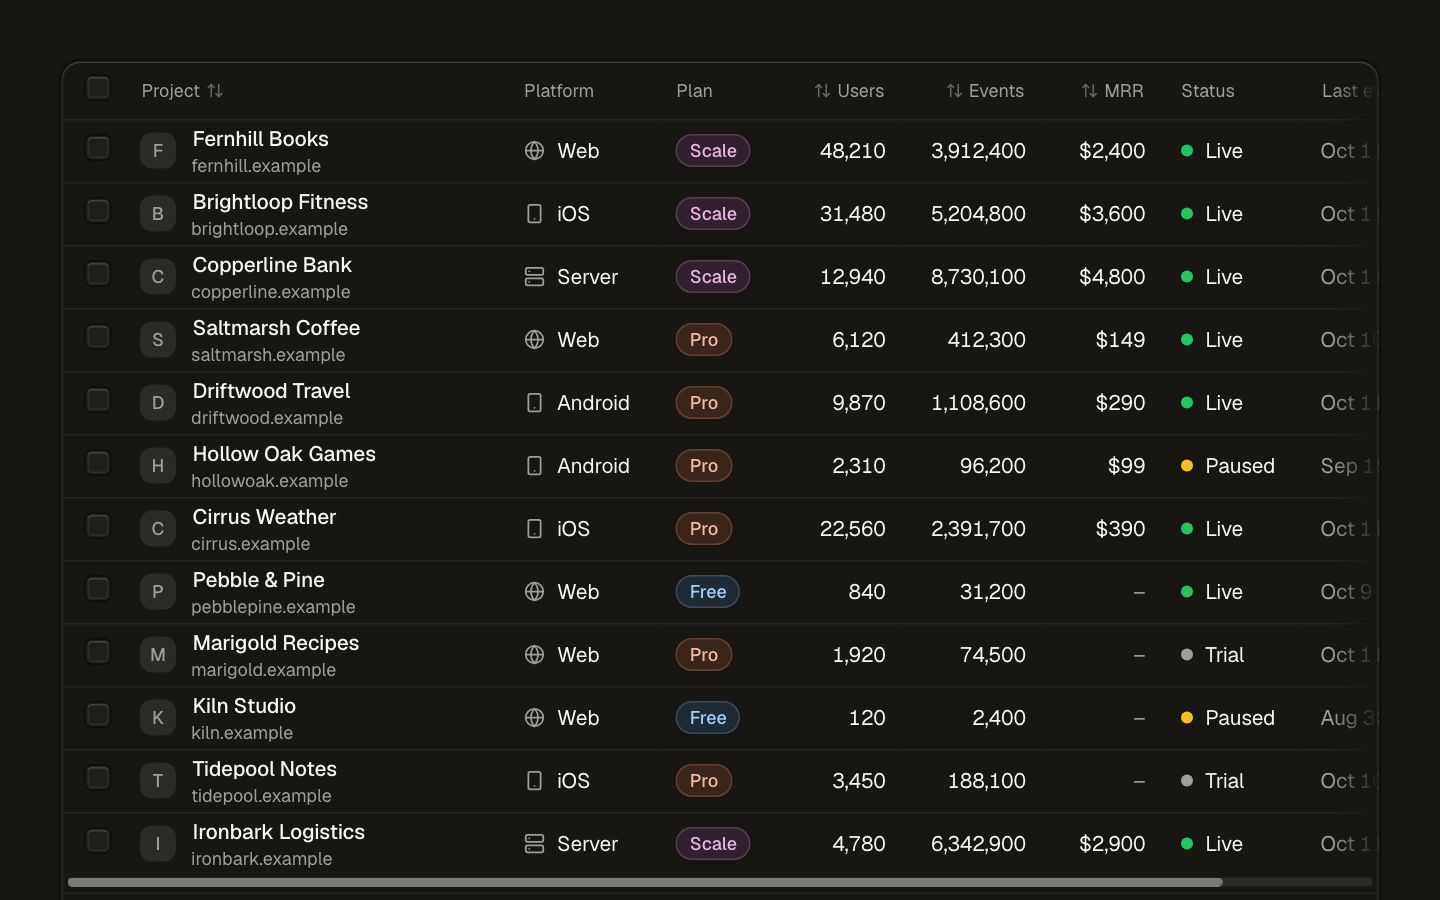
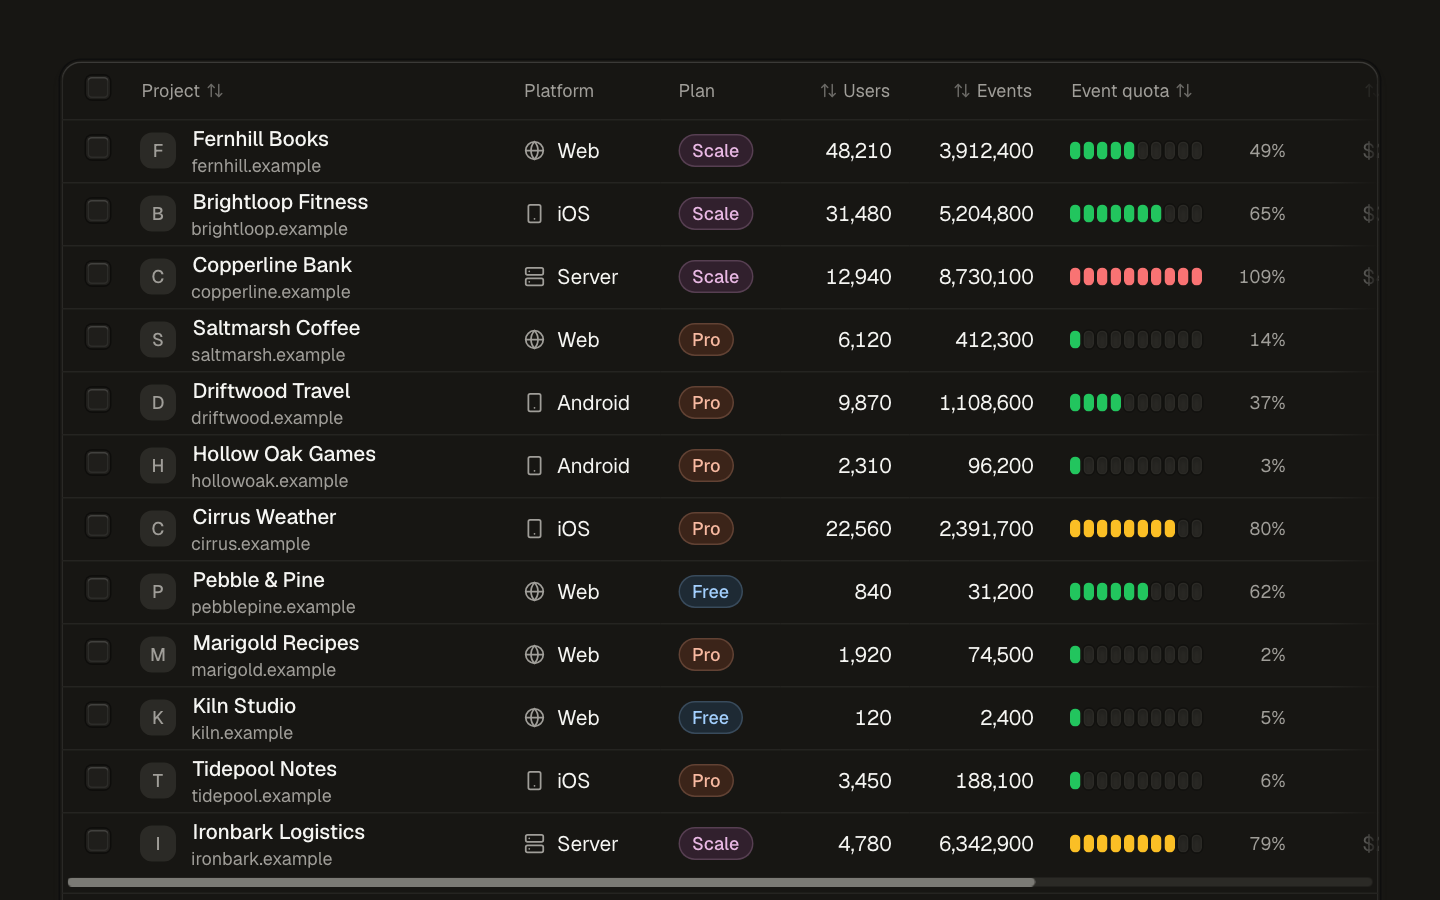
feat(data-table): add the event quota meter

diff --git a/registry/kosmos/blocks/data-table/data-table.tsx b/registry/kosmos/blocks/data-table/data-table.tsx
@@ -33,6 +33,7 @@ import {
   DropdownMenuTrigger,
 } from '@/registry/kosmos/ui/dropdown-menu';
 import { Empty, EmptyContent, EmptyDescription, EmptyHeader, EmptyMedia, EmptyTitle } from '@/registry/kosmos/ui/empty';
+import { Meter, MeterSegments, MeterValue } from '@/registry/kosmos/ui/meter';
 import { Skeleton } from '@/registry/kosmos/ui/skeleton';
 import { Table, TableBody, TableCell, TableHead, TableHeader, TableRow } from '@/registry/kosmos/ui/table';
 
@@ -87,6 +88,12 @@ const plans: Record<ProjectPlan, { label: string; variant: BadgeProps['variant']
   scale: { label: 'Scale', variant: 'magenta' },
 };
 
+/** Events each plan includes per month. */
+const planAllowance: Record<ProjectPlan, number> = { free: 50_000, pro: 3_000_000, scale: 8_000_000 };
+
+/** The share of its plan's monthly allowance a project used in the last 30 days, in percent. It can pass 100. */
+const eventQuota = (row: Project) => Math.round((row.events / planAllowance[row.plan]) * 100);
+
 const statuses: Record<ProjectStatus, { label: string; dot: string }> = {
   live: { label: 'Live', dot: 'bg-success' },
   trial: { label: 'Trial', dot: 'bg-muted-foreground' },
@@ -100,7 +107,7 @@ const usd = new Intl.NumberFormat('en-US', { style: 'currency', currency: 'USD',
 const day = new Intl.DateTimeFormat('en-US', { month: 'short', day: 'numeric', timeZone: 'UTC' });
 const formatDay = (iso: string) => day.format(new Date(`${iso}T00:00:00Z`));
 
-type SortKey = 'name' | 'users' | 'events' | 'mrr' | 'lastEventAt';
+type SortKey = 'name' | 'users' | 'events' | 'quota' | 'mrr' | 'lastEventAt';
 type Sort = { key: SortKey; direction: 'ascending' | 'descending' };
 /** What the row menu and the bulk bar offer. */
 type DataTableAction = 'copy-link' | 'export' | 'pause' | 'resume' | 'delete';
@@ -108,6 +115,7 @@ type DataTableAction = 'copy-link' | 'export' | 'pause' | 'resume' | 'delete';
 function compare(a: Project, b: Project, key: SortKey) {
   if (key === 'name') return a.name.localeCompare(b.name);
   if (key === 'lastEventAt') return a.lastEventAt.localeCompare(b.lastEventAt);
+  if (key === 'quota') return eventQuota(a) - eventQuota(b);
   return a[key] - b[key];
 }
 
@@ -154,6 +162,26 @@ function SortableHead({
         <Icon aria-hidden className={cn('size-3', !active && 'opacity-60')} />
       </Button>
     </TableHead>
+  );
+}
+
+/** Ten segments for the share of the plan's allowance used: green up to 75%, amber to 95%, red above. The bar stops at full; the number does not. */
+function EventQuota({ row }: { row: Project }) {
+  const quota = eventQuota(row);
+  return (
+    <Meter
+      value={Math.min(quota, 100)}
+      tone="auto"
+      low={75}
+      high={95}
+      optimum={0}
+      aria-label={`${row.name} event quota`}
+      getAriaValueText={() => `${quota}% of ${count.format(planAllowance[row.plan])} events used`}
+      className="w-36 grid-cols-[minmax(0,1fr)_2.75rem] items-center gap-y-0"
+    >
+      <MeterSegments count={10} className="col-span-1 h-3" />
+      <MeterValue className="row-start-1 text-caption">{() => `${quota}%`}</MeterValue>
+    </Meter>
   );
 }
 
@@ -213,7 +241,7 @@ type DataTableProps = Omit<React.ComponentProps<'div'>, 'children'> & {
 
 /**
  * A table of projects: sortable columns, row selection with a bulk action bar, platform, plan tags,
- * usage and revenue, a status dot, a row actions menu, totals in the footer, and loading and empty states.
+ * usage, an event quota meter and revenue, a status dot, a row actions menu, totals in the footer, and loading and empty states.
  * Scrolls sideways on narrow screens.
  */
 function DataTable({
@@ -286,7 +314,7 @@ function DataTable({
 
   return (
     <div data-slot="data-table" className={cn('flex min-w-0 flex-col', className)} {...props}>
-      <Table aria-label="Projects" aria-busy={loading || undefined} className="min-w-[62rem]">
+      <Table aria-label="Projects" aria-busy={loading || undefined} className="min-w-[74rem]">
         <TableHeader>
           <TableRow>
             <TableHead className="w-10 ps-4 pe-0">
@@ -309,6 +337,7 @@ function DataTable({
             <TableHead>Plan</TableHead>
             <SortableHead label="Users" sortKey="users" sort={sort} onSort={onSort} align="end" />
             <SortableHead label="Events" sortKey="events" sort={sort} onSort={onSort} align="end" />
+            <SortableHead label="Event quota" sortKey="quota" sort={sort} onSort={onSort} />
             <SortableHead label="MRR" sortKey="mrr" sort={sort} onSort={onSort} align="end" />
             <TableHead>Status</TableHead>
             <SortableHead label="Last event" sortKey="lastEventAt" sort={sort} onSort={onSort} />
@@ -344,6 +373,9 @@ function DataTable({
                 </TableCell>
                 <TableCell>
                   <Skeleton className="ms-auto h-3.5 w-16" />
+                </TableCell>
+                <TableCell>
+                  <Skeleton className="h-3 w-32" />
                 </TableCell>
                 <TableCell>
                   <Skeleton className="ms-auto h-3.5 w-12" />
@@ -407,6 +439,9 @@ function DataTable({
                   </TableCell>
                   <TableCell className="text-end">{count.format(row.users)}</TableCell>
                   <TableCell className="text-end">{count.format(row.events)}</TableCell>
+                  <TableCell>
+                    <EventQuota row={row} />
+                  </TableCell>
                   <TableCell className="text-end">
                     {row.mrr ? (
                       usd.format(row.mrr)

diff --git a/registry/kosmos/blocks/detail-drawer/detail-drawer.tsx b/registry/kosmos/blocks/detail-drawer/detail-drawer.tsx
@@ -15,6 +15,7 @@ import {
   DropdownMenuSeparator,
   DropdownMenuTrigger,
 } from '@/registry/kosmos/ui/dropdown-menu';
+import { Meter, MeterLabel, MeterSegments, MeterValue } from '@/registry/kosmos/ui/meter';
 import { Select, SelectContent, SelectItem, SelectTrigger, SelectValue } from '@/registry/kosmos/ui/select';
 import { ScrollArea } from '@/registry/kosmos/ui/scroll-area';
 import { Separator } from '@/registry/kosmos/ui/separator';
@@ -100,6 +101,9 @@ const sampleProject: DetailProject = {
   ],
 };
 
+/** Events each plan includes per month. */
+const planAllowance: Record<DetailPlan, number> = { free: 50_000, pro: 3_000_000, scale: 8_000_000 };
+
 const statuses: Record<DetailStatus, { label: string; dot: string }> = {
   live: { label: 'Live', dot: 'bg-success' },
   trial: { label: 'Trial', dot: 'bg-muted-foreground' },
@@ -171,6 +175,32 @@ function NoValue() {
       <span aria-hidden className="text-muted-foreground">–</span>
       <span className="sr-only">None</span>
     </>
+  );
+}
+
+/** The share of the plan's monthly event allowance used: ten segments that stop at full, and the real percentage, which can pass 100. */
+function EventQuota({ events, plan }: { events: number; plan: DetailPlan }) {
+  const allowance = planAllowance[plan];
+  const quota = Math.round((events / allowance) * 100);
+  return (
+    <div className="flex flex-col gap-1.5">
+      <Meter
+        value={Math.min(quota, 100)}
+        tone="auto"
+        low={75}
+        high={95}
+        optimum={0}
+        getAriaValueText={() => `${quota}% of ${count.format(allowance)} events used`}
+        className="gap-y-1.5"
+      >
+        <MeterLabel className="text-small font-normal text-muted-foreground">Event quota</MeterLabel>
+        <MeterValue className="text-small">{() => `${quota}%`}</MeterValue>
+        <MeterSegments count={10} />
+      </Meter>
+      <p className="text-small text-muted-foreground tabular-nums">
+        {count.format(events)} of {count.format(allowance)} events this month
+      </p>
+    </div>
   );
 }
 
@@ -458,6 +488,9 @@ function DetailDrawer({
                     </div>
                   ))}
                 </dl>
+                {project.plan && project.events !== undefined ? (
+                  <EventQuota events={project.events} plan={project.plan} />
+                ) : null}
                 {project.trend?.length ? (
                   <EventsTrend trend={project.trend} />
                 ) : (

diff --git a/registry/kosmos/examples/meter-table.tsx b/registry/kosmos/examples/meter-table.tsx
@@ -1,0 +1,45 @@
+'use client';
+
+import { Meter, MeterSegments, MeterValue } from '@/registry/kosmos/ui/meter';
+import { Table, TableBody, TableCell, TableHead, TableHeader, TableRow } from '@/registry/kosmos/ui/table';
+
+const projects = [
+  { name: 'Fernhill Books', quota: 49 },
+  { name: 'Ironbark Logistics', quota: 79 },
+  { name: 'Copperline Bank', quota: 109 },
+];
+
+export default function MeterTableExample() {
+  return (
+    <Table aria-label="Event quota by project" className="max-w-md">
+      <TableHeader>
+        <TableRow>
+          <TableHead className="ps-4">Project</TableHead>
+          <TableHead className="pe-4">Event quota</TableHead>
+        </TableRow>
+      </TableHeader>
+      <TableBody>
+        {projects.map((project) => (
+          <TableRow key={project.name}>
+            <TableCell className="ps-4">{project.name}</TableCell>
+            <TableCell className="pe-4">
+              <Meter
+                value={Math.min(project.quota, 100)}
+                tone="auto"
+                low={75}
+                high={95}
+                optimum={0}
+                aria-label={`${project.name} event quota`}
+                getAriaValueText={() => `${project.quota}% of the monthly allowance used`}
+                className="w-36 grid-cols-[minmax(0,1fr)_2.75rem] items-center gap-y-0"
+              >
+                <MeterSegments count={10} className="col-span-1 h-3" />
+                <MeterValue className="row-start-1 text-caption">{() => `${project.quota}%`}</MeterValue>
+              </Meter>
+            </TableCell>
+          </TableRow>
+        ))}
+      </TableBody>
+    </Table>
+  );
+}

diff --git a/.claude/skills/build-component/demo-world.md b/.claude/skills/build-component/demo-world.md
@@ -61,6 +61,33 @@ A block that needs fewer rows takes the first ones, in this order:
 
 These twelve are every project Acme has, so totals computed from them match the overview metrics: 8 live, 2 trial, 2 paused; 5 web, 3 iOS, 2 Android, 2 server; 2 free, 6 pro, 4 scale; 144,600 users, 28,495,200 events, $14,628 a month.
 
+### Event quota
+
+Each plan includes a monthly **event allowance**. A project's **quota** is its events in the last 30 days divided by its plan's allowance, as a rounded percentage. It can pass 100.
+
+| Plan | Allowance (events a month) |
+| --- | --- |
+| Free | 50000 |
+| Pro | 3000000 |
+| Scale | 8000000 |
+
+| Project | Quota |
+| --- | --- |
+| Fernhill Books | 49% |
+| Brightloop Fitness | 65% |
+| Copperline Bank | 109% (over) |
+| Saltmarsh Coffee | 14% |
+| Driftwood Travel | 37% |
+| Hollow Oak Games | 3% |
+| Cirrus Weather | 80% (near) |
+| Pebble & Pine | 62% |
+| Marigold Recipes | 2% |
+| Kiln Studio | 5% |
+| Tidepool Notes | 6% |
+| Ironbark Logistics | 79% (near) |
+
+The quota is a Meter with 10 segments, `tone="auto"`, `low` 75, `high` 95 and `optimum` 0: up to 75% is `success`, to 95% `warning`, above `destructive`. The bar stops at full and the number shows the real percentage. The detail drawer adds "2,391,700 of 3,000,000 events this month" for Cirrus Weather.
+
 ## Project detail: Cirrus Weather
 
 The project a block opens by default (the detail drawer) is Cirrus Weather, with the fields of its row above plus:
@@ -134,8 +161,8 @@ Each column carries a stage glyph (lucide) colored like a status dot: Ideas `Cir
 | --- | --- |
 | Stats overview | The overview metrics as tabs over one chart that compares the range with the period before it (7, 30 or 90 days), and the top events. |
 | Page header | The Projects page: title "Projects", tabs All, Live, Trial and Paused with counts, search, a filter menu grouped by Plan and Platform, and the primary action "New project" where the app passes `onNew`. |
-| Data table | The projects: name with domain, platform, plan, users, events, revenue, status and last event. |
-| Detail drawer | One project: plan, platform, status, its events trend, notes and the team's activity on it. |
+| Data table | The projects: name with domain, platform, plan, users, events, event quota, revenue, status and last event. |
+| Detail drawer | One project: plan, platform, status, its event quota, its events trend, notes and the team's activity on it. |
 | Kanban board | The roadmap above. |
 | New item dialog | "New roadmap item": title, description, stage (the board's columns), area, assignee and target quarter (`Q4 2026` to `Q3 2027`); the item it creates lands as a card on the kanban board, with 0 votes. |
 | App sidebar | The workspace switcher; nav Overview, Projects, Events, Users, Revenue and Roadmap; saved views "Scale plan" and "Trials" (with its count, 2); Help and feedback and Settings at the bottom; Lena Park in the user menu (profile, preferences, log out). It collapses to a column of icons. |
